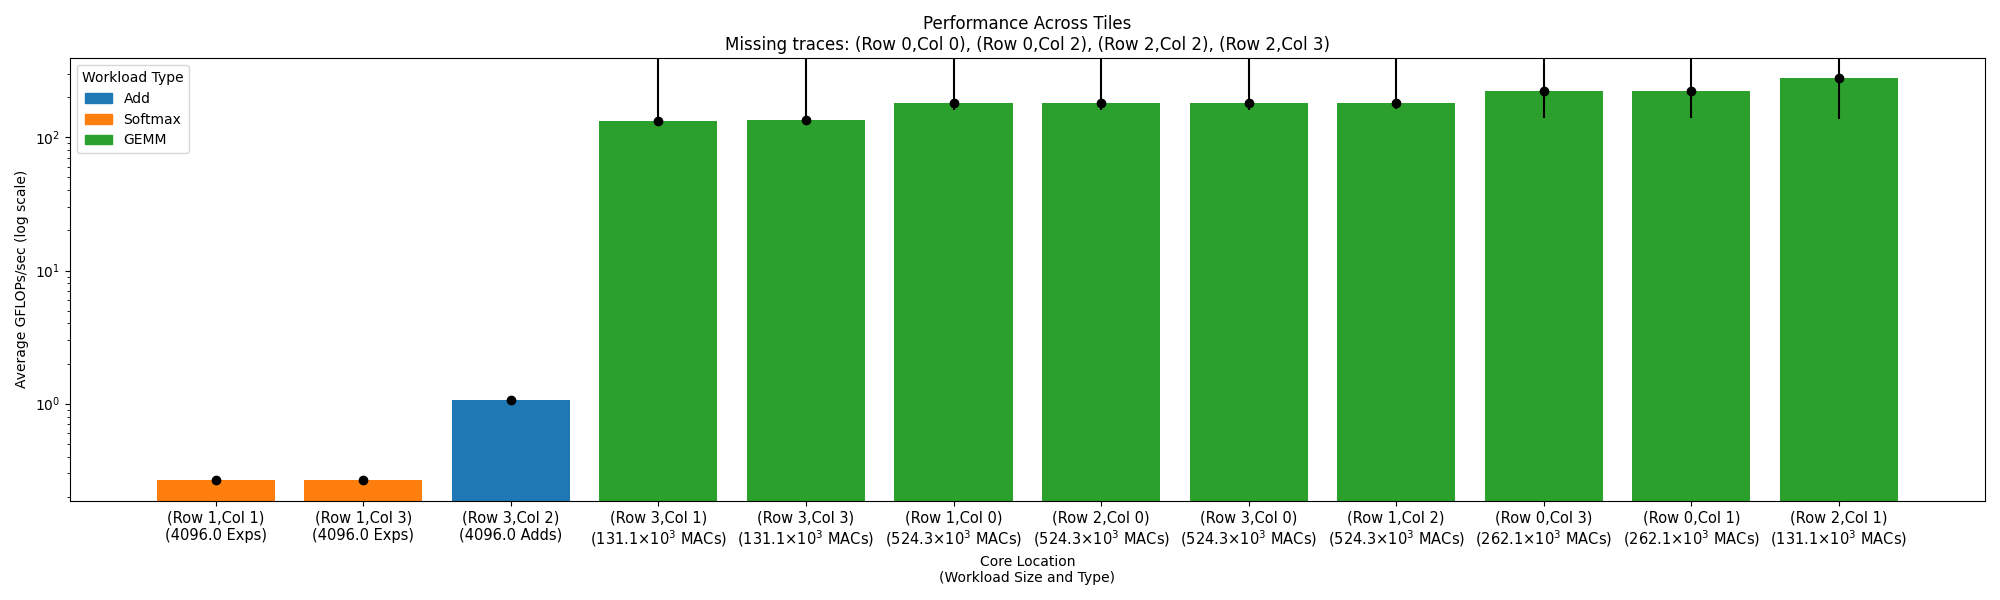
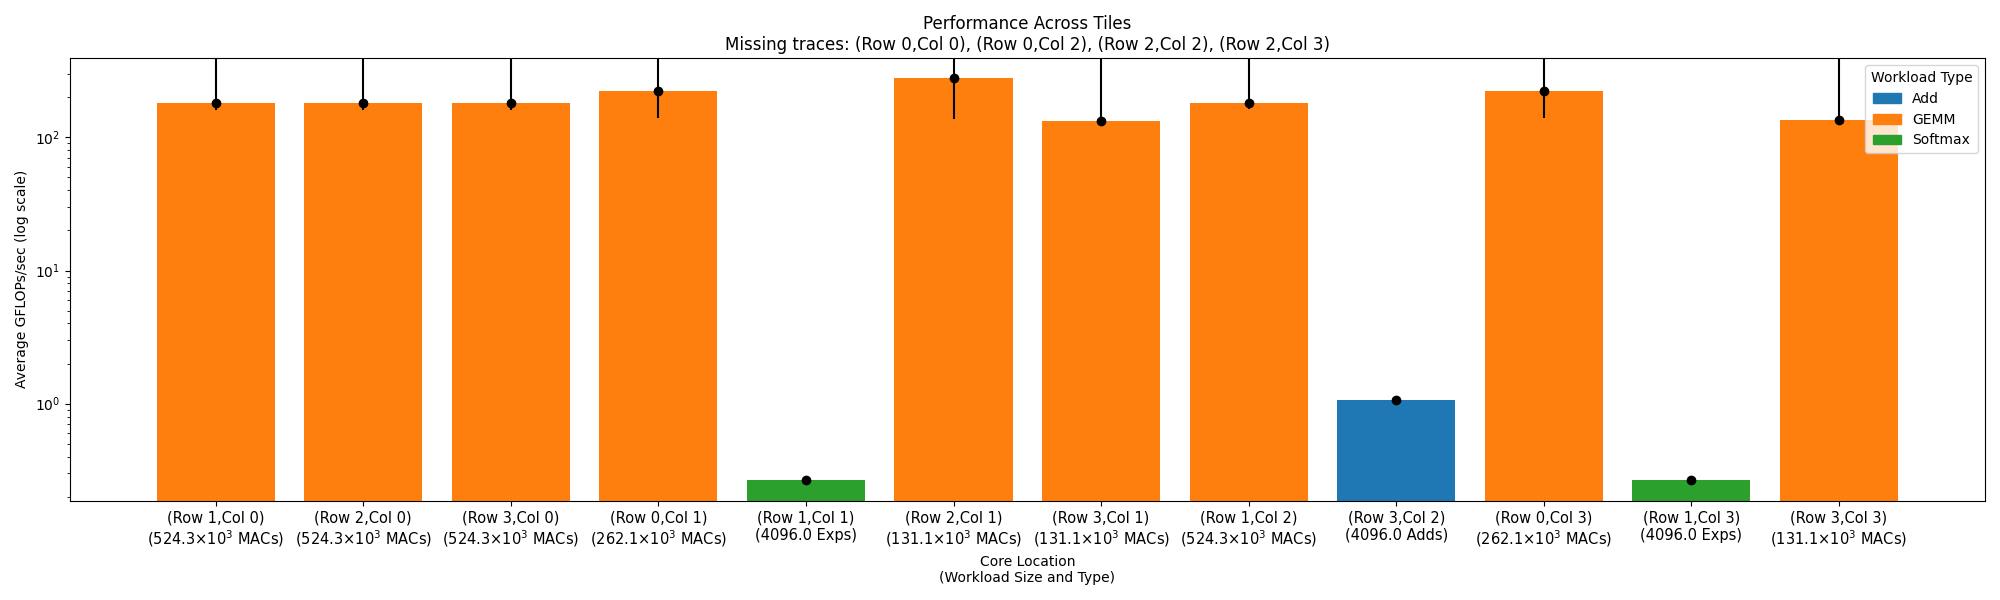
Analyzed GEMM compute utilization and generated plot of kernel times

diff --git a/programming_examples/ml/transformer/mha_with_trace/analyse_traces.py b/programming_examples/ml/transformer/mha_with_trace/analyse_traces.py
@@ -6,6 +6,7 @@ import re
 import matplotlib.pyplot as plt
 
 # First number is row, second number is column
+THEORETICAL_PEAK_BF16_BF16 = 256 # MACs per cycle
 WORKLOAD_AT_TILE = {
     "tile2,1": {"type": "GEMM", "size": 64*64*64*2},
     "tile2,2": {"type": "GEMM", "size": 16*32*256*2},
@@ -25,7 +26,7 @@ WORKLOAD_AT_TILE = {
     "tile5,4": {"type": "GEMM", "size": 16*16*256*2},
 }
 
-CLOCK_FREQ = 1e9  # 1 GHz
+CLOCK_FREQ = 10**9  # 1 GHz
 def analyse_json_file(filepath):
     """
     Analyse the JSON file for performance data.
@@ -88,12 +89,14 @@ def analyse_json_file(filepath):
                             and next_item.get("ph") == "E"
                         ):
                             end_ts = next_item.get("ts")
-                            logging.info(f"INSTR_EVENT_0 start ts: {start_ts}, INSTR_EVENT_1 end ts: {end_ts}, duration: {end_ts - start_ts}")
+                            if num_kernel_traces < 10:
+                                logging.info(f"INSTR_EVENT_0 start ts: {start_ts}, INSTR_EVENT_1 end ts: {end_ts}, duration: {end_ts - start_ts}")
                             i = j  # Move i forward to after this event
                             break
                         if next_item.get("name") == "INSTR_EVENT_0" and next_item.get("ph") == "B":
                             logging.info(f"Replacing start_ts with next INSTR_EVENT_0 ts: {next_item.get('ts')}")
                             start_ts = next_item.get("ts")
+                    # 1us is 1 cycle in perfetto
                     kernel_cycles = end_ts - start_ts if start_ts is not None and end_ts is not None else 0
                     if kernel_cycles <= 0:
                         logging.warning(f"Invalid kernel cycles instance found for tile {tile_str} at {filepath}")
@@ -104,17 +107,24 @@ def analyse_json_file(filepath):
                         kernel_time_s_min = min(kernel_time_s_min, kernel_time_s) if num_kernel_traces > 0 else kernel_time_s
                         num_kernel_traces += 1
                 i += 1
-            
             kernel_time_s_avg /= num_kernel_traces if num_kernel_traces > 0 else 1
             logging.info(f"Average kernel time (s): {kernel_time_s_avg}")
             logging.info(f"Max kernel time (s): {kernel_time_s_max}")
             logging.info(f"Min kernel time (s): {kernel_time_s_min}")
+            # Calculate GFLOPs/sec: (workload size in FLOPs) / (kernel time in seconds) / (10^9 FLOPs per GFLOPs)
             gflops_per_s_avg = (workload['size'] / kernel_time_s_avg / 1e9) if workload and kernel_time_s_avg > 0 else 0
             gflops_per_s_max = (workload['size'] / kernel_time_s_min / 1e9) if workload and kernel_time_s_min > 0 else 0
             gflops_per_s_min = (workload['size'] / kernel_time_s_max / 1e9) if workload and kernel_time_s_max > 0 else 0
             logging.info(f"Average GFLOPs/sec: {gflops_per_s_avg}")
             logging.info(f"Max GFLOPs/sec: {gflops_per_s_max}")
             logging.info(f"Min GFLOPs/sec: {gflops_per_s_min}")
+            if workload and workload['type'] == "GEMM":
+                # Compute utilization: (workload size in FLOPs) / (2 FLOPs per MAC) / (kernel time in seconds * CLOCK_FREQ in cycles per second) / (THEORETICAL_PEAK_BF16_BF16 in MACs per cycle)
+                compute_utilization = (workload['size'] / 2 / (kernel_time_s_avg * CLOCK_FREQ)) / THEORETICAL_PEAK_BF16_BF16 # Fraction of theoretical peak
+                logging.info(f"Compute Utilization for {tile_str}: {compute_utilization:.2%}")
+            else:
+                compute_utilization = None
+                logging.info(f"No compute utilization for {tile_str} as it is not a GEMM workload.")
 
             # Consistency check: max should not be less than avg, min should not be greater than avg
             if gflops_per_s_max < gflops_per_s_avg:
@@ -125,7 +135,6 @@ def analyse_json_file(filepath):
             performance_data[tile_str] = {
                 "type": workload['type'] if workload else "Unknown",
                 "size": workload['size'] if workload else 0,
-                "kernel_time_s": kernel_time_s,
                 "kernel_time_s_avg": kernel_time_s_avg,
                 "kernel_time_s_max": kernel_time_s_max,
                 "kernel_time_s_min": kernel_time_s_min,
@@ -133,11 +142,24 @@ def analyse_json_file(filepath):
                 "gflops_per_s_max": gflops_per_s_max,
                 "gflops_per_s_min": gflops_per_s_min,
                 "num_kernel_traces": num_kernel_traces,
+                "compute_utilization": compute_utilization,
                 "filepath": filepath,
             }
             return performance_data
         except json.JSONDecodeError as e:
             logging.error(f"Error decoding {filepath}: {e}")
+
+# Sort by tile col then tile row (extract col and row from tile string)
+def tile_sort_key(item):
+    # tile string is always at index 0 in the zipped tuple
+    tile_str = item[0] 
+    match = re.match(r"\(Row (\-?\d+),Col (\d+)\)", tile_str)
+    if match:
+        row = int(match.group(1))
+        col = int(match.group(2))
+        return (col, row)
+    else:
+        return (float('inf'), float('inf'))
 
 def main():
     parser = argparse.ArgumentParser(description="Analyse JSON files in a directory.")
@@ -193,14 +215,14 @@ def main():
     type_to_color = {t: color_map(i) for i, t in enumerate(unique_types)}
     bar_colors = [type_to_color[t] for t in types]
 
+    # Sort the data by tile col then row, keeping all lists aligned
+    sorted_data = sorted(zip(tiles, avg_ops, min_ops, max_ops, types, sizes, bar_colors), key=tile_sort_key)
+    tiles, avg_ops, min_ops, max_ops, types, sizes, bar_colors = map(list, zip(*sorted_data))
+    x = range(len(tiles))
+
     _, ax = plt.subplots(figsize=(20, 6)) 
     # Set y-axis to logarithmic scale
     ax.set_yscale('log')
-
-    # Sort the data by avg_ops (lowest to highest), keeping all lists aligned
-    sorted_data = sorted(zip(avg_ops, min_ops, max_ops, tiles, types, sizes, bar_colors))
-    avg_ops, min_ops, max_ops, tiles, types, sizes, bar_colors = map(list, zip(*sorted_data))
-    x = range(len(tiles))
     ax.bar(x, avg_ops, color=bar_colors, label='Avg GFLOPs/sec')
     ax.errorbar(
         x, avg_ops,
@@ -240,6 +262,123 @@ def main():
     plt.savefig(output_path)
     logging.info(f"Plot saved to {output_path}")
     plt.close()
+
+    # Plot compute utilization across tiles, including workload size/type in x-axis
+    util_tiles = []
+    util_values = []
+    util_colors = []
+    util_labels = []
+    util_xticklabels = []
+    for result in performance_results:
+        for tile, data in result.items():
+            if data["type"] == "GEMM":
+                match = re.match(r"tile(\d+),(\d+)", tile)
+                if match:
+                    row, col = int(match.group(1)), int(match.group(2))
+                    if args.dev == "npu":
+                        col -= 1
+                    tile_str = f"(Row {row-2},Col {col})"
+                else:
+                    tile_str = tile
+                util_tiles.append(tile_str)
+                util_values.append(data["compute_utilization"])
+                util_colors.append("tab:blue")
+                util_labels.append("GEMM")
+                # Add workload size/type info
+                text = f"({data['size'] / 1e3:.1f}×10$^3$ MACs)"
+                util_xticklabels.append(f"{tile_str}\n{text}")
+
+    # Sort by tile col then row for consistent plotting
+    util_sorted = sorted(zip(util_tiles, util_values, util_colors, util_labels, util_xticklabels), key=tile_sort_key)
+    util_tiles, util_values, util_colors, util_labels, util_xticklabels = map(list, zip(*util_sorted))
+    x = range(len(util_tiles))
+
+    fig, ax = plt.subplots(figsize=(20, 6))
+    bars = ax.bar(x, util_values, color=util_colors)
+    for i, label in enumerate(util_labels):
+        if label != "GEMM":
+            ax.text(i, 0.01, label, ha='center', va='bottom', fontsize=9, rotation=90, color='gray')
+
+    ax.set_ylabel("Compute Utilization (/% peak throughput)")
+    ax.set_xlabel("Core Location\n(Workload Size and Type)")
+    ax.set_title("Compute Utilization Across Tiles for Tiles Running GEMM")
+    ax.set_ylim(0, 1.05)
+    ax.set_xticks(x)
+    ax.set_xticklabels(util_xticklabels, ha='center', fontsize=10.5)
+    plt.tight_layout()
+    util_output_path = os.path.join(script_dir, "compute_utilization_per_tile.png")
+    plt.savefig(util_output_path)
+    logging.info(f"Compute utilization plot saved to {util_output_path}")
+    plt.close()
+
+    # Plot kernel time (avg, min, max) across tiles, including workload size/type in x-axis
+    kernel_avg = []
+    kernel_min = []
+    kernel_max = []
+    kernel_tiles = []
+    kernel_xticklabels = []
+    kernel_types = []
+    for result in performance_results:
+        for tile, data in result.items():
+            match = re.match(r"tile(\d+),(\d+)", tile)
+            if match:
+                row, col = int(match.group(1)), int(match.group(2))
+                if args.dev == "npu":
+                    col -= 1
+                tile_str = f"(Row {row-2},Col {col})"
+            else:
+                tile_str = tile
+            kernel_tiles.append(tile_str)
+            kernel_avg.append(data["kernel_time_s_avg"] * 1e6)  # convert to us
+            kernel_min.append(data["kernel_time_s_min"] * 1e6)
+            kernel_max.append(data["kernel_time_s_max"] * 1e6)
+            kernel_types.append(data["type"])
+            # Add workload size/type info
+            if data["type"] == "GEMM":
+                text = f"({data['size'] / 1e3:.1f}×10$^3$ MACs)"
+            elif data["type"] == "Softmax":
+                text = f"({data['size']:.1f} Exps)"
+            elif data["type"] == "Add":
+                text = f"({data['size']:.1f} Adds)"
+            else:
+                text = ""
+            kernel_xticklabels.append(f"{tile_str}\n{text}")
+
+    # Assign a color to each workload type (reuse type_to_color from above)
+    kernel_bar_colors = [type_to_color.get(t, "gray") for t in kernel_types]
+
+    kernel_sorted = sorted(
+        zip(kernel_tiles, kernel_avg, kernel_min, kernel_max, kernel_xticklabels, kernel_bar_colors, kernel_types),
+        key=tile_sort_key
+    )
+    kernel_tiles, kernel_avg, kernel_min, kernel_max, kernel_xticklabels, kernel_bar_colors, kernel_types = map(list, zip(*kernel_sorted))
+    x = range(len(kernel_tiles))
+
+    fig, ax = plt.subplots(figsize=(20, 6))
+    ax.bar(x, kernel_avg, color=kernel_bar_colors, label="Avg Kernel Time (us)")
+    ax.errorbar(
+        x, kernel_avg,
+        yerr=[
+            [avg - minv for avg, minv in zip(kernel_avg, kernel_min)],
+            [maxv - avg for avg, maxv in zip(kernel_avg, kernel_max)]
+        ],
+        fmt='o', color='black', label='Min/Max Kernel Time (us)'
+    )
+    ax.set_ylabel("Kernel Time (us)")
+    ax.set_xlabel("Core Location\n(Workload Size and Type)")
+    ax.set_title("Kernel Time (Avg, Min, Max) Across Tiles")
+    ax.set_xticks(x)
+    ax.set_xticklabels(kernel_xticklabels, ha='center', fontsize=10.5)
+    # Create legend for workload types
+    kernel_unique_types = list(set(kernel_types))
+    kernel_handles = [plt.Rectangle((0,0),1,1, color=type_to_color.get(t, "gray")) for t in kernel_unique_types]
+    ax.legend(kernel_handles, kernel_unique_types, title="Workload Type")
+    plt.tight_layout()
+    kernel_output_path = os.path.join(script_dir, "kernel_time_per_tile.png")
+    plt.savefig(kernel_output_path)
+    logging.info(f"Kernel time plot saved to {kernel_output_path}")
+    plt.close()
+
 
 if __name__ == "__main__":
     main()

diff --git a/programming_examples/ml/transformer/scripts/run_analysis.py b/programming_examples/ml/transformer/scripts/run_analysis.py
@@ -302,14 +302,6 @@ def analyse_computation_distribution(input_file, output_dir):
     else:
         logger.info("No tiles with matmul found for computation utilization plot.")
 
-def analyse_computation_utilization(input_file, output_dir):
-    """
-    Analyse computation utilization for the given MLIR file.
-    This function reads the MLIR file and extracts information about the computation patterns.
-    It generates plots and reports to visualize the computation distribution across tiles.
-    """
-    raise NotImplementedError("This function is not implemented yet. Please use 'analyse_computation_distribution' instead.")
-
 def analyse_loop_iterations(input_file, output_dir):
     """
     Analyse loop iterations in the MLIR file.
@@ -672,8 +664,6 @@ if __name__ == "__main__":
         analyse_memory_utilization(args.dev, args.input_file, args.output_dir)
     elif task == "comp-dist":
         analyse_computation_distribution(args.input_file, args.output_dir)
-    elif task == "comp-util":
-        analyse_computation_utilization(args.input_file, args.output_dir)
     elif task == "loop-iters":
         analyse_loop_iterations(args.input_file, args.output_dir)
     elif task == "exec-times":
